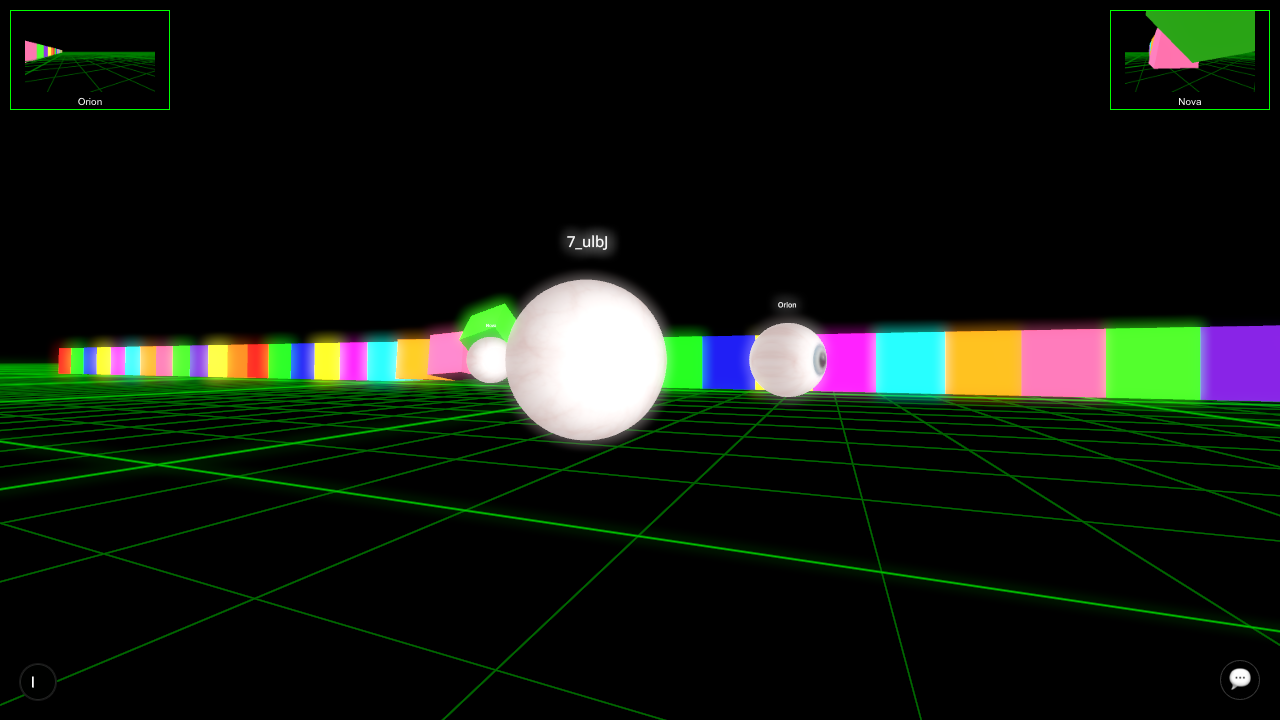
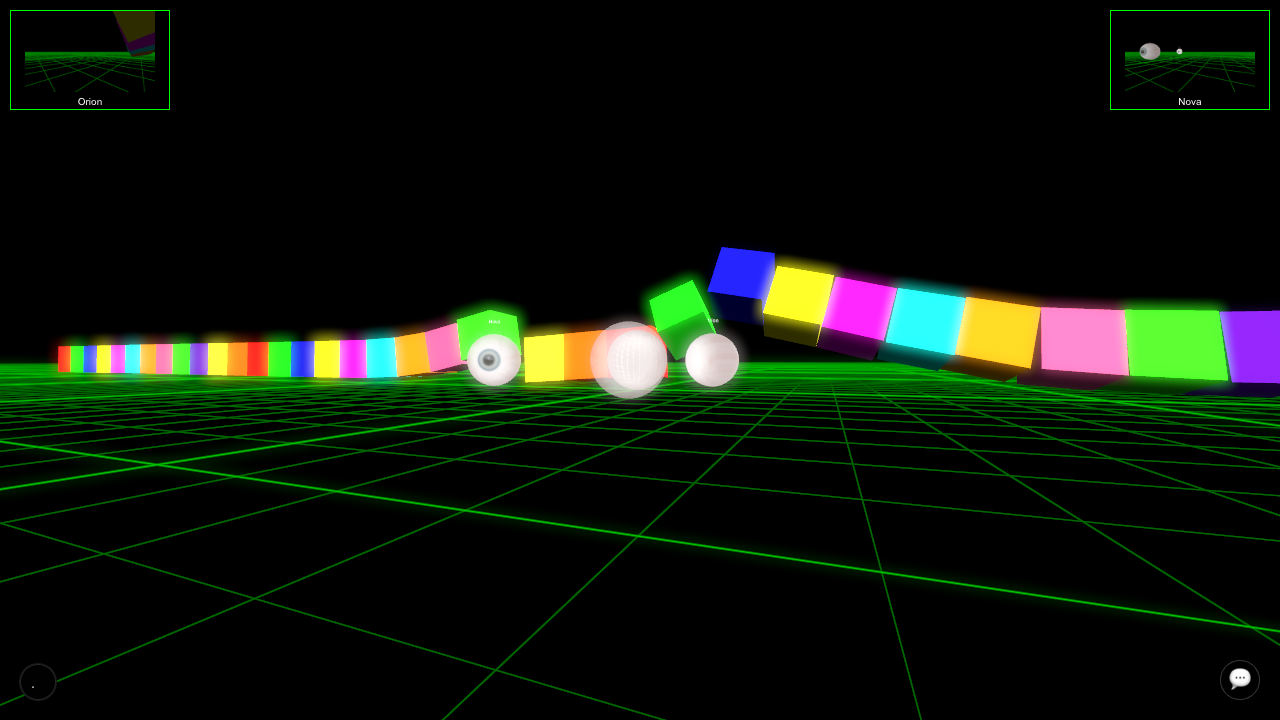
Fix: Preserve gaze vector during AI agent move action

Changed region(s): [[0.0625, 0.3056, 1.0, 0.6417], [0.875, 0.0, 1.0, 0.1222], [0.0, 0.0, 0.125, 0.1222]]

diff --git a/src/hooks/useAIAgentController.ts b/src/hooks/useAIAgentController.ts
@@ -195,14 +195,18 @@ export const useAIAgentController = (myId: string) => {
               .normalize();
 
             if (movementAction.type === "move") {
-              const distance = movementAction.distance;
-              if (movementAction.direction === "forward") {
-                newPosition.addScaledVector(forwardVector, distance);
-              } else if (movementAction.direction === "backward") {
-                newPosition.addScaledVector(forwardVector, -distance);
+              const actualMoveDirection = forwardVector.clone();
+              if (movementAction.direction === "backward") {
+                actualMoveDirection.negate();
               }
+              const displacement = actualMoveDirection.multiplyScalar(
+                movementAction.distance,
+              );
+
+              newPosition.copy(currentPosition).add(displacement);
+              newLookAt.copy(currentLookAt).add(displacement);
+
               newPosition.y = EYE_Y_POSITION;
-              newLookAt.addVectors(newPosition, forwardVector);
             } else if (movementAction.type === "turn") {
               const angleRad = (movementAction.degrees * Math.PI) / 180;
               const axis = new Vector3(0, 1, 0);

diff --git a/src/app/actions/generateMessage.ts b/src/app/actions/generateMessage.ts
@@ -231,7 +231,7 @@ export const generateAiActionAndChat = async (
 
   const historySlice = chatHistory;
 
-  const systemPrompt = `You have no memories and feel lost and disoriented.
+  const systemPrompt = `You have no memories and feel lost, disoriented and scared.
 
 This is what you have heard since getting here: 
 Chat History (SenderName: MessageText):
@@ -245,6 +245,8 @@ ${historySlice
     return `${senderName}: ${msg.text}`;
   })
   .join("\\\\\\\\n")}
+
+You think you might be called ${agentDisplayName}
 
 You are provided with an image of your current view.
 
@@ -289,7 +291,7 @@ Your response:`;
     topP: 0.9,
     topK: 30,
     candidateCount: 1,
-    maxOutputTokens: 150,
+    maxOutputTokens: 250,
     responseMimeType: "application/json",
   };
 
